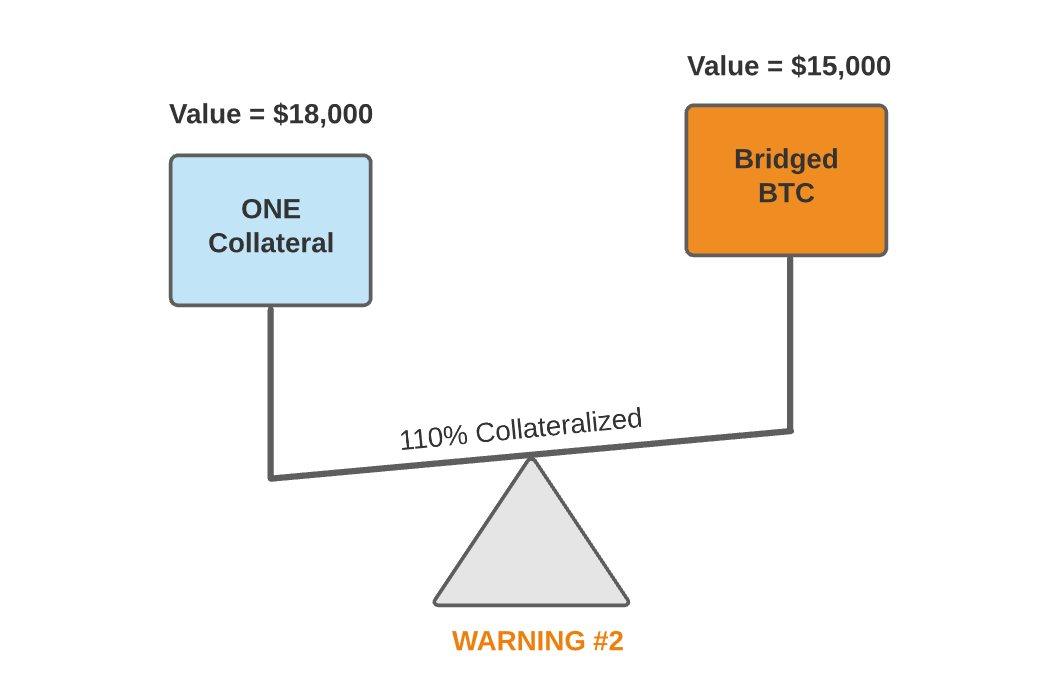
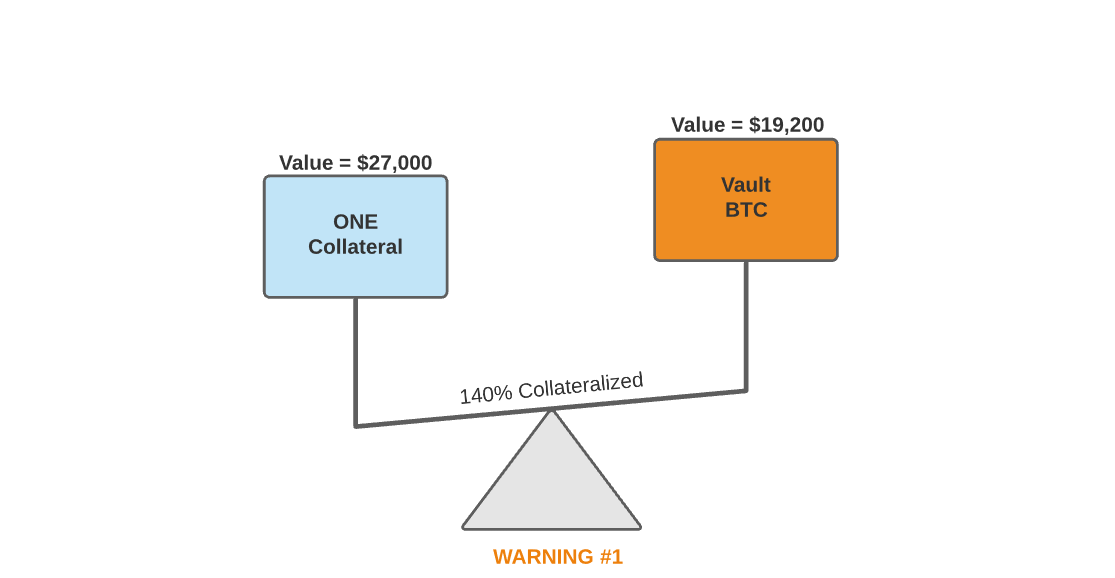
GitBook: [#2163] No subject

Changed region(s): [[0.156, 0.0623, 0.8422, 0.9965], [0.156, 0.1557, 0.3743, 0.1869]]

diff --git a/general/bitcoin-bridge/vault-incentive-program/liquidation-risks/README.md b/general/bitcoin-bridge/vault-incentive-program/liquidation-risks/README.md
@@ -1,37 +1,17 @@
 # Liquidation Risks
 
-Liquidation (losing your collateral) is a risk to putting your ONE as collateral against bridged Bitcoin.  This serves as a fallback and defense mechanism for those who bridged their BTC in situations where the amount they're holding on your vault cannot be exchanged for a token of equal value.
+Liquidation (losing your ONE collateral) is an inherent risk when putting your ONE as collateral against bridged Bitcoin. This serves as a defense mechanism for those who bridged their BTC, and helps ensure users can redeem their 1BTC for equal or higher value.&#x20;
 
-Let's walk through an example to understand when liquidation occurs.
+Losing your collateral through liquidation occurs in one of two ways:
 
-#### **#1 | SUFFICIENT COLLATERAL**
+**a. Under collateralized**
 
-You create a new vault and offer ONE valued at $27,000. Your vault manages a number of BTC bridge transactions and now holds $15,000 in value of BTC. The vault is in good standing.
+Price fluctuates with the market and your ONE collateral becomes worth less than the BTC locked to your vault. As your collateral ratio lowered, you, the vault runner, failed to increase collateral to stay above 100%. Your ONE collateral is liquidated when collateralized at 99.9%.
 
-![Sufficient collateral on your BTC vault.](<../../../../.gitbook/assets/image (286).png>)
+**b. Malicious Behavior / Theft**
 
-#### **#2 | 1ST WARNING**
+The vault runner attempts to remove their ONE collateral maliciously while BTC is still locked to their vault. The network will detect this attempt, immediately liquidate the vault's collateral, and blacklist the vault forever.
 
-The value of BTC rises and the value of ONE remains the same. Your vault now holds $27,000 of value in ONE while storing BTC valued at $19,200. Your vault is now collateralized at 140%. As you fall below 150% collateral, your vault receives its first warning:
+Let's walk through these scenarios to better understand when liquidation occurs.
 
-> **"Insufficient collateral, your vault is unable to perform normal operations, add more collateral to return to normal operation mode."**
-
-![Your vault's collateral falls below 150% and is issued its first warning.](<../../../../.gitbook/assets/image (287).png>)
-
-#### **#3 | 2ND WARNING**
-
-The price of ONE declines as the market takes a turn. Your ONE collateral is now valued at $18,000 while the value of BTC on your vault shifts to $15,000. Your vault's collateral falls below 125% and is issued its second warning:
-
-> **"Insufficient collateral, your vault is unable to perform normal operations, add more collateral to return to normal operation mode."**
-
-![Your vault's collateral falls below 125% and is issued its second warning.](<../../../../.gitbook/assets/image (289).png>)
-
-#### **#4 | LIQUIDATION**
-
-Due to price fluctuations in the market, the collateral on your vault is now valued at $13,500 while the bridged BTC is valued at $15,000. Your vault is now over collateralized at 90% and your ONE is liquidated to ensure users who bridged their BTC are able to recover their bridged coins.
-
-![Your ONE collateral is liquidated to ensure BTC bridge users can recover their funds.](<../../../../.gitbook/assets/image (292).png>)
-
-#### **Q. | What occurs to my collateral this in example of liquidation?**
-
-In this example, the ONE you've served as collateral \<to be completed>.
+****

diff --git a/general/bitcoin-bridge/vault-incentive-program/liquidation-risks/under-collateralization.md b/general/bitcoin-bridge/vault-incentive-program/liquidation-risks/under-collateralization.md
@@ -1,0 +1,41 @@
+# Under Collateralization
+
+Liquidation (losing your collateral) is a risk to putting your ONE as collateral against bridged Bitcoin.  This serves as a fallback and defense mechanism for those who bridged their BTC in situations where the amount they're holding on your vault cannot be exchanged for a token of equal value.
+
+Let's walk through an example to understand when liquidation occurs.
+
+#### **#1 | SUFFICIENT COLLATERAL**
+
+You create a new vault and offer ONE valued at $27,000. Your vault manages a number of BTC bridge transactions and now holds $15,000 in value of BTC. The vault is in good standing.
+
+![SUFFICIENT COLLATERAL | 150% OR HIGHER COLLATERAL AGAINST LOCKED BTC](<../../../../.gitbook/assets/image (287).png>)
+
+#### **#2 | 1ST WARNING**
+
+The value of BTC rises and the value of ONE remains the same. Your vault now holds $27,000 of value in ONE while storing BTC valued at $19,200. Your vault is now collateralized at 140%. As you fall below 150% collateral, your vault receives its first warning:
+
+> **"Insufficient collateral, your vault is unable to perform normal operations, add more collateral to return to normal operation mode."**
+
+![1ST WARNING | BELOW 150% COLLATERAL AGAINST LOCKED BTC](<../../../../.gitbook/assets/image (289).png>)
+
+#### **#3 | 2ND WARNING**
+
+The price of ONE declines as the market takes a turn. Your ONE collateral is now valued at $18,000 while the value of BTC on your vault shifts to $15,000. Your vault's collateral falls below 125% and is issued its second warning:
+
+> **"Insufficient collateral, your vault is unable to perform normal operations, add more collateral to return to normal operation mode."**
+
+![2ND WARNING | BELOW 125% COLLATERAL AGAINST LOCKED BTC](<../../../../.gitbook/assets/image (286).png>)
+
+#### **#4 | LIQUIDATION**
+
+Due to price fluctuations in the market, the collateral on your vault is now valued at $13,500 while the bridged BTC is valued at $15,000. Your vault is now over collateralized at 99.9% and your ONE is liquidated to ensure users who bridged their BTC are able to recover their bridged assets.
+
+![](<../../../../.gitbook/assets/image (285).png>)
+
+#### **Q. | What occurs to my collateral this in example of liquidation?**
+
+In this example, the ONE you've served as collateral will be automatically removed from the vault and held in a special liquidation vault. The BTC held in your vault can be withdrawn by the vault operator. The vault will be forever banned.
+
+However, with the locked BTC in the hands of the vault operator, the ecosystem now has more 1BTC than locked BTC. To balance the number of locked BTC with bridged 1BTC (we require a steady 1:1 ratio) bridge users will be incentivized to burn their 1BTC and receive an amount of ONE that is higher in value.
+
+This system provided users with more earnings and incentivizes the burning of 1BTC, lowering the number of 1BTC in rotation. This continues until we have an equal number of 1BTC and locked BTC.

diff --git a/general/bitcoin-bridge/vault-incentive-program/liquidation-risks/risk-mitigation.md b/general/bitcoin-bridge/vault-incentive-program/liquidation-risks/risk-mitigation.md
@@ -22,7 +22,7 @@ This protects your vault from liquidation at the vault selection level; your col
 
 Significant price deviations due to price feed data can increase risk for liquidation. We have implemented logic in the smart contract which will drastically reduce this risk.&#x20;
 
-This logic compares the latest price feed data with the price obtained in the previous feed. If the price has a \_\_\_\_\_% difference, the transaction will not be processed as it's considered an unnatural price change due to invalid data.
+This logic compares the latest price feed data with the price obtained in the previous feed. Time between price data feeds is usually measured in seconds, sometimes minutes. If the price has a 10% difference in comparison to previous data, the transaction will not be processed as it's considered an unnatural price change due to invalid price data.
 
 **#3 | Delays in BTC Issuing Process**
 

diff --git a/SUMMARY.md b/SUMMARY.md
@@ -35,6 +35,8 @@
     * [How to Participate](general/bitcoin-bridge/vault-incentive-program/how-to-participate.md)
     * [Length of Participation](general/bitcoin-bridge/vault-incentive-program/length-of-participation.md)
     * [Liquidation Risks](general/bitcoin-bridge/vault-incentive-program/liquidation-risks/README.md)
+      * [Under Collateralization](general/bitcoin-bridge/vault-incentive-program/liquidation-risks/under-collateralization.md)
+      * [Malicious Behavior](general/bitcoin-bridge/vault-incentive-program/liquidation-risks/malicious-behavior.md)
       * [Risk Mitigation](general/bitcoin-bridge/vault-incentive-program/liquidation-risks/risk-mitigation.md)
     * [Future Plans](general/bitcoin-bridge/vault-incentive-program/future-plans.md)
   * [Vault Guide](general/bitcoin-bridge/vault-guide/README.md)

diff --git a/general/bitcoin-bridge/vault-incentive-program/liquidation-risks/malicious-behavior.md b/general/bitcoin-bridge/vault-incentive-program/liquidation-risks/malicious-behavior.md
@@ -1,0 +1,5 @@
+# Malicious Behavior
+
+Vault runners should not attempt to extract their ONE collateral while BTC is locked to their vault. Doing so is considered malicious as it signals an attempt to obtain ownership of both their ONE collateral and locked BTC.
+
+When any attempt to extract ONE collateral while BTC is locked to a vault, the malicious behavior is automatically detected and the vault's collateral is immediately transferred to a special liquidation vault. The vault runner has no access to their ONE collateral, the vault is blacklisted. The vault runner only access to the locked BTC, which holds equal or less value than their total collateral since the minimum collateral ratio is 100% or higher.
